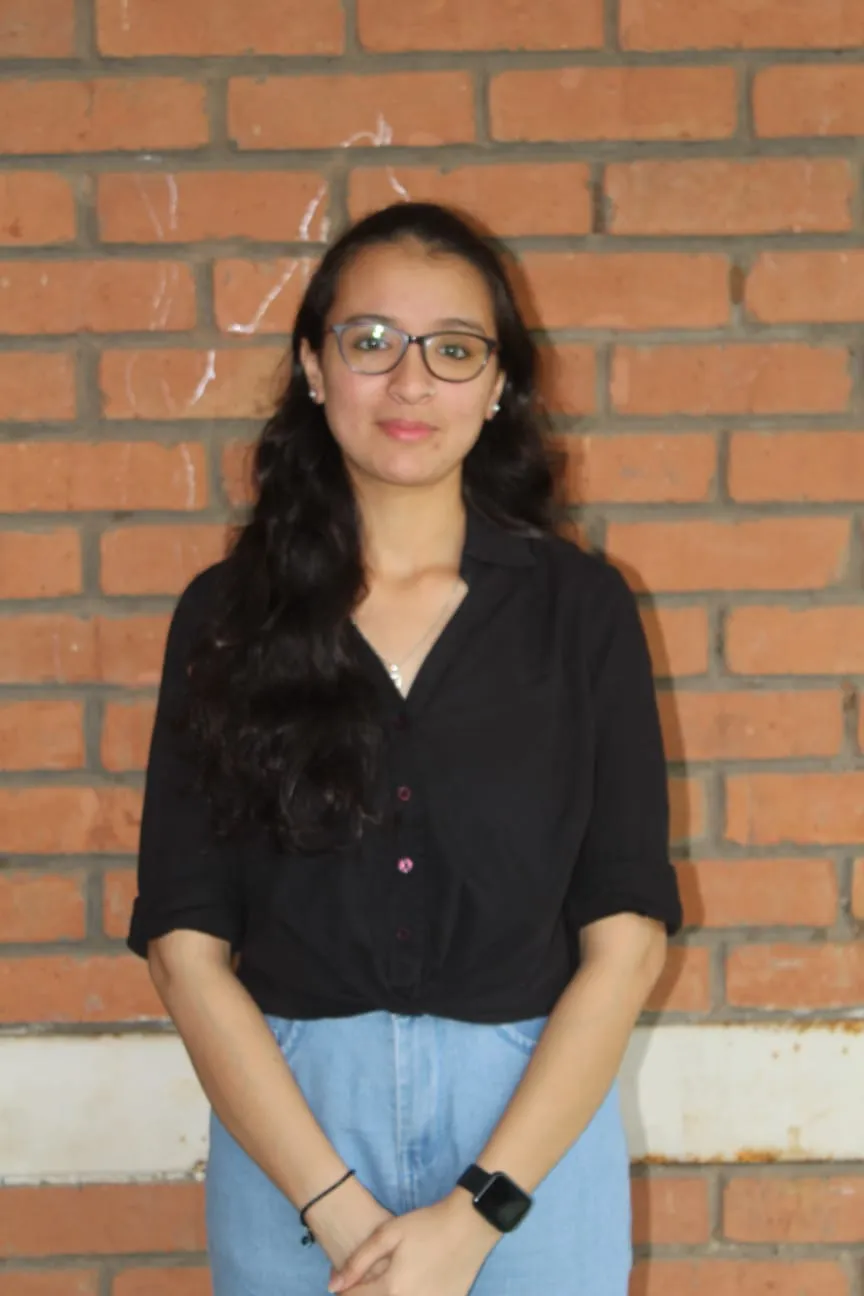
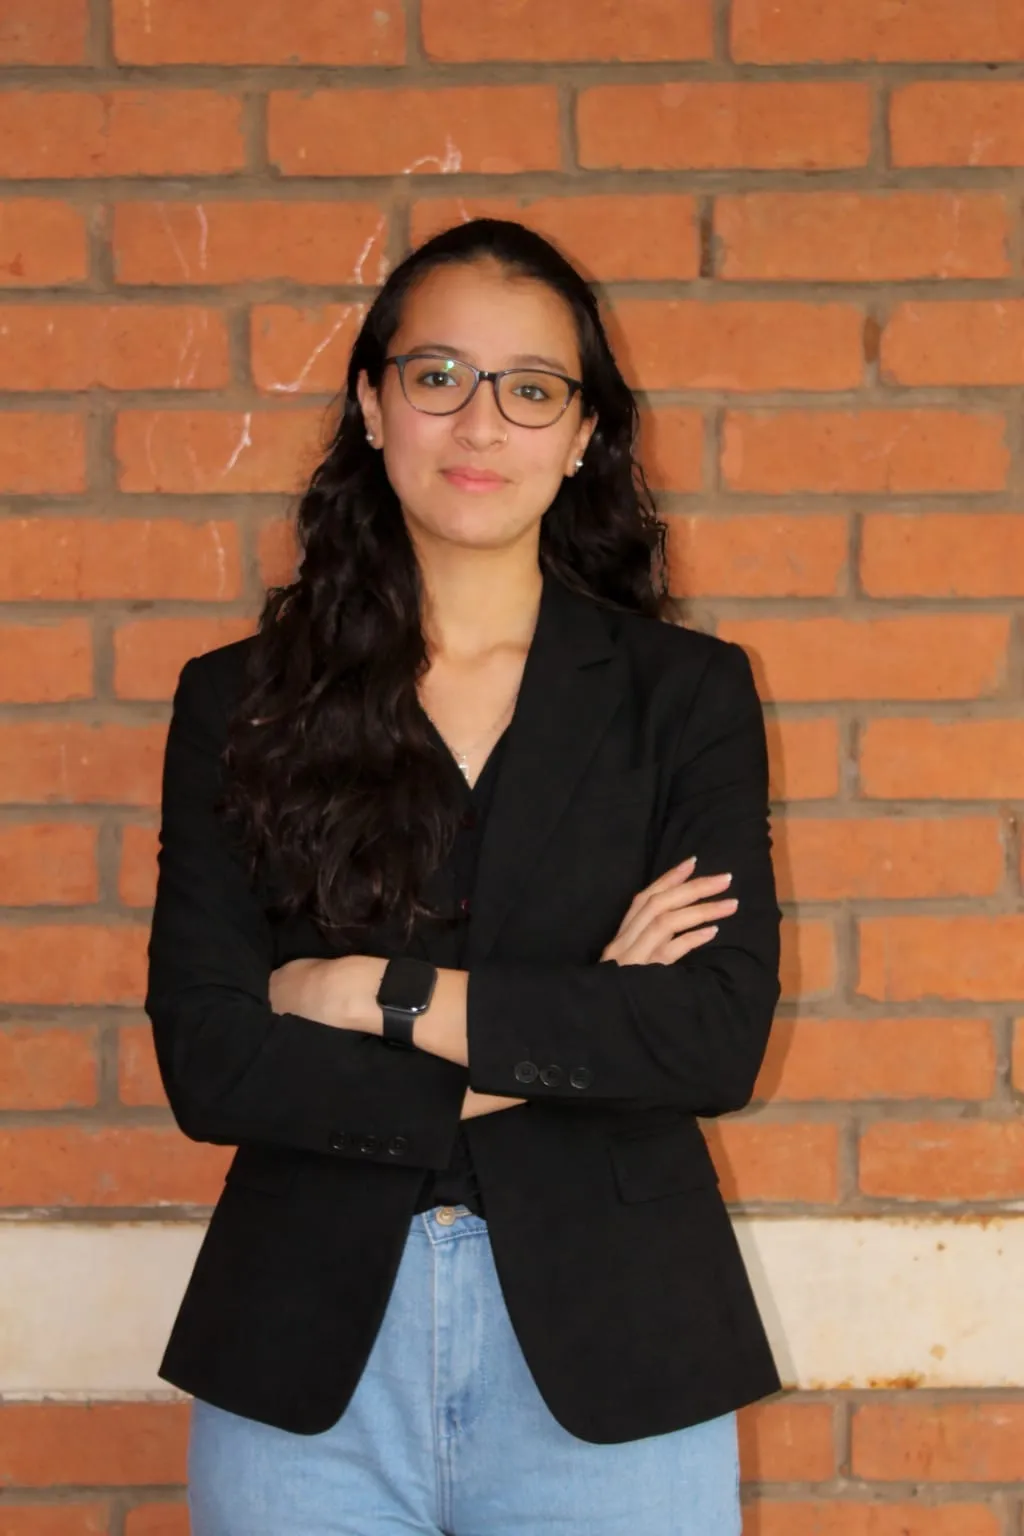
feat: implement AboutIETE and Hero components with team data structure and assets

diff --git a/src/components/AboutIETE/AboutIETE.jsx b/src/components/AboutIETE/AboutIETE.jsx
@@ -48,14 +48,22 @@ const TEAM_DATA = {
         accent: '#00c8ff',
         banner: 'CORE',
         members: [
-            { role: 'Cp', title: 'Chairperson', name: 'Meera Malekar', photo: '/team/core/cp.webp', linkedin: 'https://www.linkedin.com/in/meera-malekar-a1b1323b6/', email: 'meera.malekar@somaiya.edu' },
-            { role: 'VCp', title: 'Vice Chairperson', name: 'Meeti Shah', photo: '/team/core/vcp.webp', linkedin: 'https://www.linkedin.com/in/meeti-shah27', email: 'meeti.cs@somaiya.edu' },
-            { role: 'CEo', title: 'Chief Executive Officer', name: 'Nilambika Dudhani ', photo: '/team/core/ceo.webp', linkedin: 'https://www.linkedin.com/in/nilambika-dudhani-13b73b345/', email: ' nilambika.d@somaiya.edu' },
-            { role: 'CTO', title: 'Chief Technical Officer', name: 'Sujal Chalke', photo: '/team/core/cto.webp', linkedin: 'https://www.linkedin.com/in/cluelesssujal/', email: 'sujal.chalke@somaiya.edu' },
-            { role: 'CMO', title: 'Chief Marketing Officer', name: 'Krish Chambaria', photo: '/team/core/cmo.webp', linkedin: 'https://www.linkedin.com/in/krish-chambaria-271b92315/', email: 'krish.chambaria@somaiya.edu' },
-            { role: 'PRO', title: 'Public Relations Officer', name: 'Darsh Kothari', photo: '/team/core/pro.webp', linkedin: ' https://www.linkedin.com/in/darsh-kothari-70919a264', email: 'darsh.kothari@somaiya.edu' },
-            { role: 'DMM', title: 'Digital Media Manager', name: 'Arnav Deshpande', photo: '/team/core/dmm.webp', linkedin: 'https://www.linkedin.com/in/arnav-deshpande-4988023b8/', email: 'arnav.deshpande@somaiya.edu' },
-            { role: 'Trs', title: 'Treasurer', name: 'Neel Shah', photo: '/team/core/tr.webp', linkedin: '', email: '' },
+            { role: 'Cp', title: 'Chairperson', name: 'Meera Malekar', photo: '/team/core/cp.webp', linkedin: 'https://www.linkedin.com/in/meera-malekar-a1b1323b6/', email: 'meera.malekar@somaiya.edu',
+                bio: 'Leads the IETE KJSIT student chapter with vision and purpose, steering the committee towards impactful technical initiatives and fostering a culture of innovation.' },
+            { role: 'VCp', title: 'Vice Chairperson', name: 'Meeti Shah', photo: '/team/core/vcp.webp', linkedin: 'https://www.linkedin.com/in/meeti-shah27', email: 'meeti.cs@somaiya.edu',
+                bio: 'Supports the Chairperson in strategic planning and committee operations, ensuring smooth coordination across all domains and keeping the team aligned.' },
+            { role: 'CEo', title: 'Chief Executive Officer', name: 'Nilambika Dudhani', photo: '/team/core/ceo.webp', linkedin: 'https://www.linkedin.com/in/nilambika-dudhani-13b73b345/', email: ' nilambika.d@somaiya.edu',
+                bio: 'Oversees the overall execution of IETE activities, bridging leadership decisions with on-ground operations to ensure every initiative is delivered with excellence.' },
+            { role: 'CTO', title: 'Chief Technical Officer', name: 'Sujal Chalke', photo: '/team/core/cto.webp', linkedin: 'https://www.linkedin.com/in/cluelesssujal/', email: 'sujal.chalke@somaiya.edu',
+                bio: 'Drives the technical direction of the chapter, spearheading workshops, hackathons, and dev initiatives that expand the coding culture among students.' },
+            { role: 'CMO', title: 'Chief Marketing Officer', name: 'Krish Chambaria', photo: '/team/core/cmo.webp', linkedin: 'https://www.linkedin.com/in/krish-chambaria-271b92315/', email: 'krish.chambaria@somaiya.edu',
+                bio: 'Leads brand strategy and marketing campaigns, amplifying IETE KJSIT\'s reach and visibility across campus, social media, and industry networks.' },
+            { role: 'PRO', title: 'Public Relations Officer', name: 'Darsh Kothari', photo: '/team/core/pro.webp', linkedin: 'https://www.linkedin.com/in/darsh-kothari-70919a264', email: 'darsh.kothari@somaiya.edu',
+                bio: 'Manages external communications and builds relationships with sponsors, media partners, and industry professionals to strengthen the chapter\'s public presence.' },
+            { role: 'DMM', title: 'Digital Media Manager', name: 'Arnav Deshpande', photo: '/team/core/dmm.webp', linkedin: 'https://www.linkedin.com/in/arnav-deshpande-4988023b8/', email: 'arnav.deshpande@somaiya.edu',
+                bio: 'Curates and manages IETE\'s digital footprint — from social media content to event coverage — ensuring engaging and consistent online storytelling.' },
+            { role: 'Trs', title: 'Treasurer', name: 'Neel Shah', photo: '/team/core/tr.webp', linkedin: 'https://www.linkedin.com/in/neel-shah-729a99281/', email: 'shah.nk@somaiya.edu',
+                bio: 'Manages the financial health of the chapter, overseeing budgets, funds allocation, and expenditure tracking to keep every event running sustainably.' },
         ],
     },
     subcore: {
@@ -65,16 +73,24 @@ const TEAM_DATA = {
         accent: '#a855f7',
         banner: 'SUB-CORE',
         members: [
-            { role: 'WDL', title: 'Secretary', name: 'Himani Bamnikar', photo: '/team/subcore/sec.webp', linkedin: 'https://www.linkedin.com/in/himani-m-bamnikar/', email: 'himani.bamnikar@somaiya.com' },
-            { role: 'DSL', title: 'Joint Treasurer', name: 'Parth Shah', photo: '/team/subcore/jt-tr.webp', linkedin: 'https://www.linkedin.com/in/parth-shah-148b43368', email: 'parth13@somaiya.edu' },
-            { role: 'MKL', title: 'Marketing Admin', name: 'Mishti Shah', photo: '/team/subcore/ma.webp', linkedin: 'https://www.linkedin.com/in/mishti-shah-250811310', email: 'mishti.shah@somaiya.edu' },
-            { role: 'PRL', title: 'Joint Technical Officer', name: 'Shravani Dhuri', photo: '/team/subcore/jt-cto.webp', linkedin: 'https://www.linkedin.com/in/shravani-dhuri-986b6a317/', email: 'shravani.dhuri@somaiya.edu' },
-            { role: 'TECL', title: 'Technical Admin', name: 'Karan Mishra', photo: '/team/subcore/tech-admin.webp', linkedin: 'https://www.linkedin.com/in/karan-mishra-b2273b3a3/', email: 'karan.mishra@somaiya.edu' },
-            { role: 'CL', title: 'Joint Public Relations Officer', name: 'Savir Shrigadi', photo: '/team/subcore/cl.webp', linkedin: '', email: 'savir.s@somaiya.edu' },
-            { role: 'SML', title: 'Public Relations Admin', name: 'Zeal Dhami', photo: '/team/subcore/pr-admin.webp', linkedin: '', email: 'zeal.dhami@somaiya.edu' },
-            { role: 'EVL', title: 'Social Media Manager', name: 'Pratik Narvadkar', photo: '/team/subcore/smm.webp', linkedin: '', email: 'pratik.narvadkar@somaiya.edu' },
-            { role: 'ORL', title: 'Creative Admin', name: 'Eshant Palkar', photo: '/team/subcore/orl.webp', linkedin: '', email: 'eshant.p@somaiya.edu' },
-            { role: 'DOCL', title: 'Organising Admin', name: 'Bhavy Doshi', photo: '/team/subcore/org-head.webp', linkedin: 'https://www.linkedin.com/in/bhavy-doshi-735b20341/', email: 'bhavy.d@somaiya.edu' },
+            { role: 'WDL', title: 'Secretary', name: 'Himani Bamnikar', photo: '/team/subcore/sec.webp', linkedin: 'https://www.linkedin.com/in/himani-m-bamnikar/', email: 'himani.bamnikar@somaiya.com',
+                bio: 'Maintains the chapter\'s records, coordinates inter-team communication, and ensures all documentation and administrative tasks run like clockwork.' },
+            { role: 'DSL', title: 'Joint Treasurer', name: 'Parth Shah', photo: '/team/subcore/jt-tr.webp', linkedin: 'https://www.linkedin.com/in/parth-shah-148b43368', email: 'parth13@somaiya.edu',
+                bio: 'Assists in financial planning and fund management, tracking budgets across events and ensuring resources are optimally utilized.' },
+            { role: 'MKL', title: 'Marketing Admin', name: 'Mishti Shah', photo: '/team/subcore/ma.webp', linkedin: 'https://www.linkedin.com/in/mishti-shah-250811310', email: 'mishti.shah@somaiya.edu',
+                bio: 'Executes marketing strategies on the ground, coordinating outreach campaigns, promotional materials, and event publicity to maximize participation.' },
+            { role: 'PRL', title: 'Joint Technical Officer', name: 'Shravani Dhuri', photo: '/team/subcore/jt-cto.webp', linkedin: 'https://www.linkedin.com/in/shravani-dhuri-986b6a317/', email: 'shravani.dhuri@somaiya.edu',
+                bio: 'Collaborates with the CTO to plan and execute technical workshops, events, and member development initiatives across the academic year.' },
+            { role: 'TECL', title: 'Technical Admin', name: 'Karan Mishra', photo: '/team/subcore/tech-admin.webp', linkedin: 'https://www.linkedin.com/in/karan-mishra-b2273b3a3/', email: 'karan.mishra@somaiya.edu',
+                bio: 'Provides technical support for events and the committee\'s internal tools, managing logistics and backend requirements for a seamless execution.' },
+            { role: 'CL', title: 'Joint Public Relations Officer', name: 'Zeal Dhami', photo: '/team/subcore/pr-admin.webp', linkedin: '', email: 'zeal.dhami@somaiya.edu',
+                bio: 'Supports external outreach efforts and helps manage relationships with sponsors, media partners, and industry contacts alongside the PRO.' },
+            { role: 'EVL', title: 'Social Media Manager', name: 'Pratik Narvadkar', photo: '/team/subcore/smm.webp', linkedin: '', email: 'pratik.narvadkar@somaiya.edu',
+                bio: 'Drives the chapter\'s social media presence by crafting engaging content, managing posts, and growing the community across all digital platforms.' },
+            { role: 'ORL', title: 'Creative Admin', name: 'Eshant Palkar', photo: '/team/subcore/orl.webp', linkedin: '', email: 'eshant.p@somaiya.edu',
+                bio: 'Brings ideas to life through design and creativity, producing visual content, branding assets, and event collaterals that define the IETE aesthetic.' },
+            { role: 'DOCL', title: 'Organising Admin', name: 'Bhavy Doshi', photo: '/team/subcore/org-head.webp', linkedin: 'https://www.linkedin.com/in/bhavy-doshi-735b20341/', email: 'bhavy.d@somaiya.edu',
+                bio: 'Coordinates the end-to-end logistics of events — from venue setup to volunteer management — ensuring every event runs smoothly behind the scenes.' },
         ],
     },
 
@@ -521,8 +537,7 @@ export default function AboutIETE() {
                                 <div className={styles.popupDivider}
                                     style={{ background: `linear-gradient(to right, ${selectedMember.accent}, #8000ff)` }} />
                                 <p className={styles.popupBio}>
-                                    A key member of the IETE KJSIT committee, responsible for driving
-                                    innovation and excellence within the chapter.
+                                    {selectedMember.bio || 'A key member of the IETE KJSIT committee, responsible for driving innovation and excellence within the chapter.'}
                                 </p>
                                 <div className={styles.popupSocials}>
                                     <a

diff --git a/src/data/constants.js b/src/data/constants.js
@@ -5,28 +5,28 @@ export const EVENTS = {
         logo: '/logos/tech_escape.png',
         type: 'tech',
         description: 'Teams must solve a series of coding, logic, and tech-based puzzles within a time limit to unlock stages and finally "escape" the room. Team size: 3 members. Entry: ₹100.',
-        registerUrl: '#',
+        registerUrl: 'https://forms.gle/ZUZwYczPybNwjLmo6',
     },
     'debug-dash': {
         title: 'Debug Dash',
         logo: '/logos/debug_dash.png',
         type: 'tech',
         description: 'A high-intensity competition that challenges you to identify, analyze, and fix errors in pre-written code snippets under strict time constraints. Focus is on logical clarity and attention to detail — not writing from scratch. Entry: ₹30 per person.',
-        registerUrl: '#',
+        registerUrl: 'https://forms.gle/dZ6pVZKCaYmgsbrf7',
     },
     'pixel-perfect': {
         title: 'Pixel Perfect',
         logo: '/logos/pixel_perfect.png',
         type: 'tech',
         description: 'A visual coding showdown where code meets art. Participants are shown a specific geometric shape or pattern (the "Target") and must recreate it using only HTML and CSS within a strict time limit. No images, no SVGs — just pure code and styling. Entry: ₹30 per person.',
-        registerUrl: '#',
+        registerUrl: 'https://forms.gle/4QjxkyVgUXsybeeLA',
     },
     'tech-ctf': {
         title: 'Tech CTF',
         logo: '/logos/tech_ctf.png',
         type: 'tech',
         description: 'A hands-on cybersecurity contest where participants solve real-world security challenges in a fun and competitive environment. With cybersecurity as one of the fastest-growing career domains, get ready to capture the flags! Entry: ₹50 per person.',
-        registerUrl: '#',
+        registerUrl: 'https://forms.gle/Q6yTr6N4eQGanSJB8',
     },
     'upcoming-event': {
         title: 'Circuit Sprint',
@@ -40,28 +40,28 @@ export const EVENTS = {
         logo: '/logos/auction.png',
         type: 'nontech',
         description: 'Build your dream cricket team with a fixed budget and smart bidding strategies. Analyze players, plan tactics, and outbid competitors to create the ultimate winning squad. Team size: 4 members. Entry: ₹200.',
-        registerUrl: 'https://forms.gle/QgfYXgzEkVjNoU3L9',
+        registerUrl: 'https://forms.gle/bvXa2WvvGFG8VD3N9',
     },
     'F1': {
         title: 'F1',
         logo: '/logos/f1.png',
         type: 'nontech',
         description: 'Buckle up and dominate the virtual tracks! This PS5 showdown is all about speed, strategy, and skill as you battle it out in F1 — the ultimate test of reflexes and racing prowess. Outmaneuver, outsmart, and outdrive your rivals in thrilling head-to-head battles. Entry: ₹50 per person.',
-        registerUrl: '#',
+        registerUrl: 'https://forms.gle/xLvgbgN5SYcWJV118',
     },
     'campus-fued': {
         title: 'Campus Fued',
         logo: '/logos/campus_feud.png',
         type: 'nontech',
         description: 'A fun, survey-based team game where you guess the most popular campus answers. Test your wit, teamwork, and presence of mind to score big! Team size: 2 members. Entry: ₹100.',
-        registerUrl: '#',
+        registerUrl: 'https://forms.gle/FFX6MLSiZDpKV8gC8',
     },
     'startup-saga': {
         title: 'Startup Saga',
         logo: '/logos/startup_saga.png',
         type: 'nontech',
         description: 'All about ideas, creativity, and quick thinking. No technical skills needed! This event gives you a real-world startup experience in a fun and interactive way. Entry: ₹50 per person.',
-        registerUrl: '#',
+        registerUrl: 'https://forms.gle/oMkMBBEDmd1LhyP17',
     },
 };
 
@@ -101,4 +101,4 @@ export const PAST_SPONSORS = {
 };
 
 // Countdown target date — April 1 2026
-export const EVENT_DATE = new Date('2026-04-06T00:00:00');
+export const EVENT_DATE = new Date('2026-04-07T00:00:00');

diff --git a/src/components/Hero/Hero.jsx b/src/components/Hero/Hero.jsx
@@ -75,7 +75,7 @@ export default function Hero() {
                         <div className={styles.ring2} />
                         <div className={styles.orbCore}>
                             <span className={styles.orbYear}>2026</span>
-                            <span className={styles.orbSub}>APR 01</span>
+                            <span className={styles.orbSub}>APR 07</span>
                             <span className={styles.orbKjsit}>KJSIT</span>
                         </div>
                     </div>
